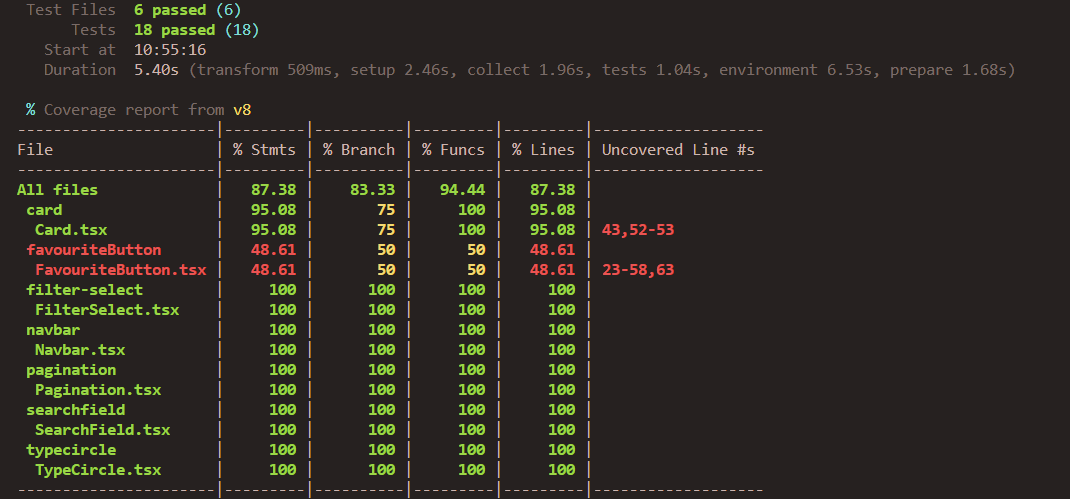
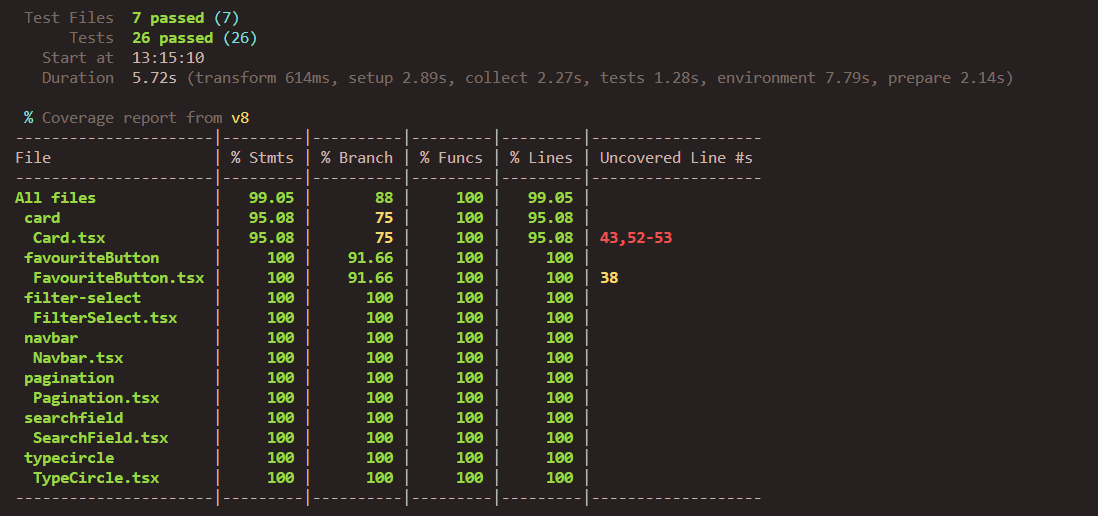
Updated coverage report image and numbers of tests

Changed region(s): [[0.0, 0.2104, 0.7093, 0.992], [0.0308, 0.0, 0.9561, 0.1804], [0.0, 0.2705, 0.0617, 0.3307]]

diff --git a/README.md b/README.md
@@ -21,7 +21,7 @@ We use eslint to lint our code. To run the linter, run `npm run lint` in the roo
 We used vitest for DOM, snapshot and Unit-testing. To run the tests, run `npm run test` in the root folder.
 To check the test-coverage, run `npm run coverage` in the root folder.
 
-As shown below in the coverage report, we have 18 tests and 6 files. Each file is correspondent to a component to be tested and we have tested the following components, with the described tests:
+As shown below in the coverage report, we have 26 tests and 7 files. Each file is correspondent to a component to be tested and we have tested the following components, with the described tests:
 
 - Card
   - Snapshot test
